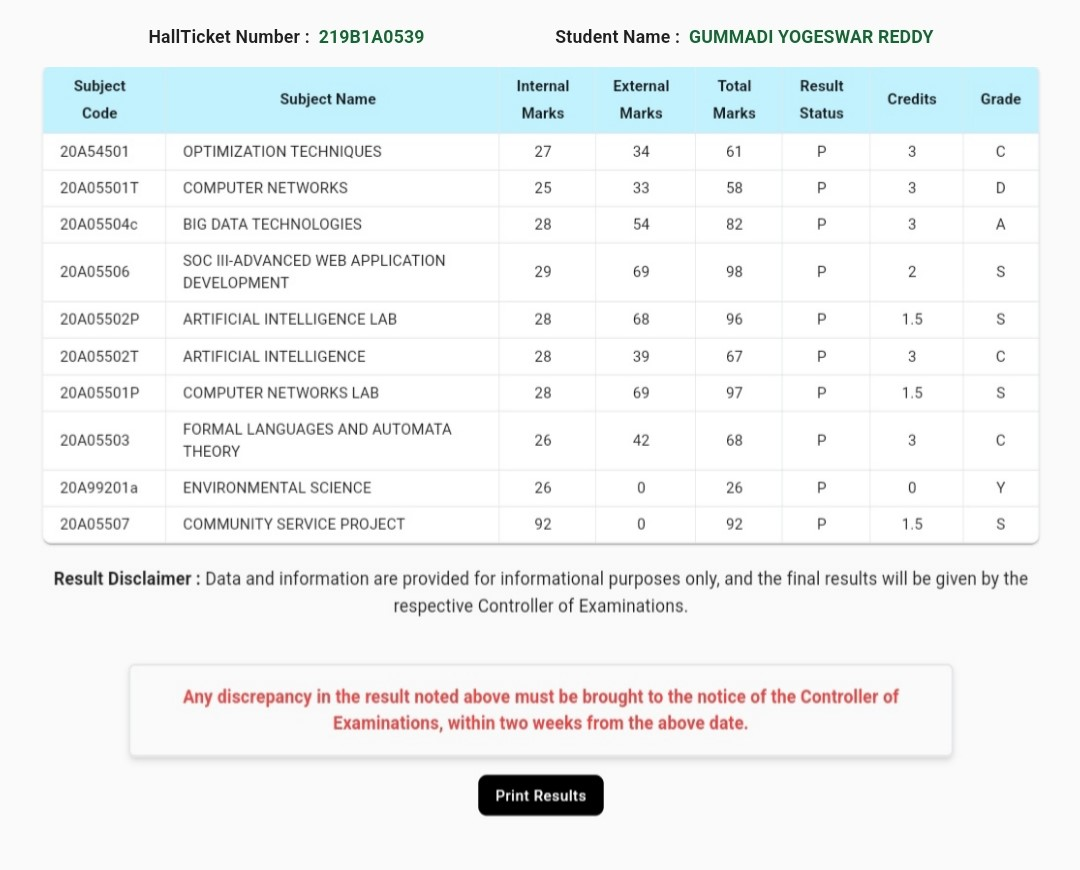
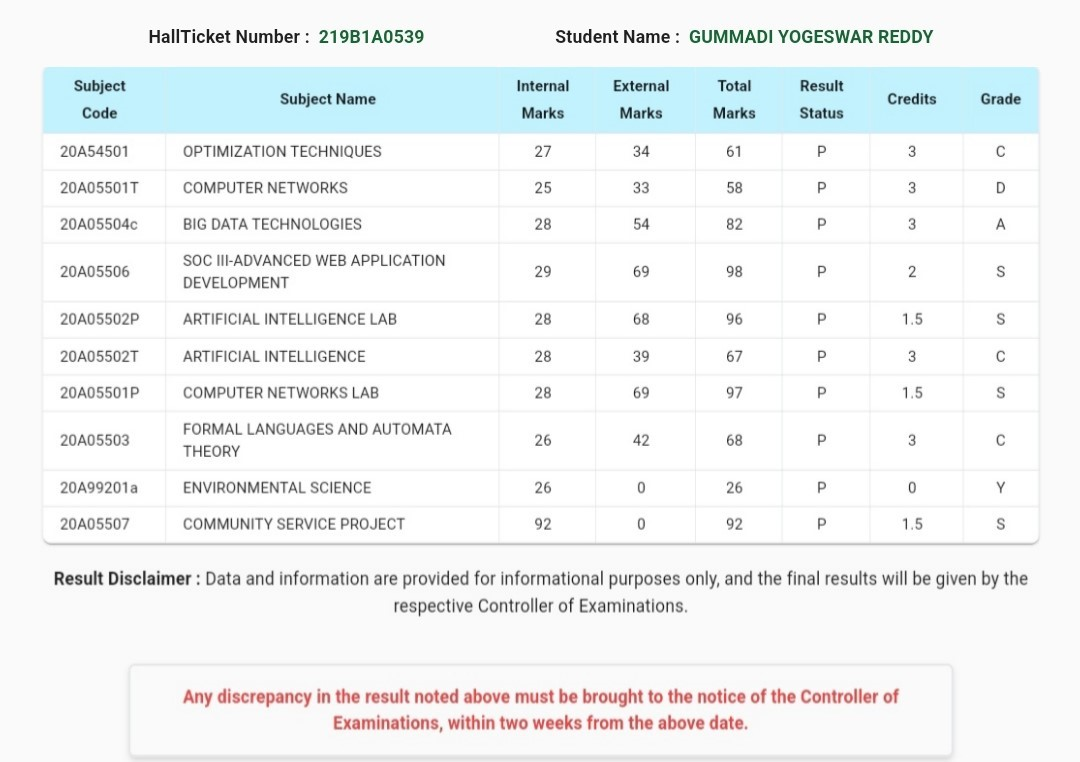
final

diff --git a/style.css b/style.css
@@ -28,7 +28,7 @@ body {
   margin: 0 auto;
   /* padding: 0 32px; */
   min-width: 320px;
-  background-color: var(--backgroundColor);
+  background-color:#FAFAFA;
 }
 
 h1,
@@ -303,7 +303,7 @@ main .container.block .capture{
 }
 
 .results{
-  background-image: url("./public/origin.jpg");
+  display: none;
   background-position:left;
   background-size: 100% 100%;
   background-repeat: no-repeat;
@@ -311,9 +311,24 @@ main .container.block .capture{
   width:152rem;
   height: 90rem;
   margin-bottom: 5rem;
-  display: none;
+
+img{
+    width:110rem;
+    height: 90rem;
+  }
+  transform: translateX(10%);
+  -webkit-transform: translateX(10%);
+  -moz-transform: translateX(10%);
+  -ms-transform: translateX(10%);
+  -o-transform: translateX(10%);
+}
+.black-btn{
+  display:none;
 }
 .section.show .results{
+  display: block;
+}
+.section.show .black-btn{
   display: block;
 }
 
@@ -338,6 +353,26 @@ input[type="checkbox"]{
 }
 
 
+.section .button{
+  display: grid;
+  place-items: center;
+  margin-bottom: 10rem;
+  button{
+    text-align: center;
+    font-size: 1.9rem;
+    padding: 0.6rem 2.8rem;
+    outline: none;
+    color: white;
+    background-color: #000000;
+    border-color: transparent;
+    border-radius: 8px;
+    -webkit-border-radius: 8px;
+    -moz-border-radius: 8px;
+    -ms-border-radius: 8px;
+    -o-border-radius: 8px;
+  }
+}
+
 @media (width <= 400px) {
   .container{
     padding:0rem 1rem;
@@ -347,7 +382,7 @@ input[type="checkbox"]{
     font-size: 50.5%;
   }
   body{
-  background-color:#E8E4E5;
+  background-color:#FAFAFA;
   }
   header{
     display: flex;
@@ -395,13 +430,26 @@ input[type="checkbox"]{
   }
 
   .section .results{
-    width:140rem;
-    background-image: url("./public/small.jpg");
-    transform: translateX(-2rem);
-    -webkit-transform: translateX(-2rem);
-    -moz-transform: translateX(-2rem);
-    -ms-transform: translateX(-2rem);
-    -o-transform: translateX(-2rem);
+    transform: translateX(0rem);
+    -webkit-transform: translateX(0rem);
+    -moz-transform: translateX(0rem);
+    -ms-transform: translateX(0rem);
+    -o-transform: translateX(0rem);
+
+img{
+      width:140rem;
+      height: 90rem;
+      src: url("./public/small.jpg");
+    }
+
+}
+
+.section  .black-btn{
+  transform: translateX(50rem);
+  -webkit-transform: translateX(50rem);
+  -moz-transform: translateX(50rem);
+  -ms-transform: translateX(50rem);
+  -o-transform: translateX(50rem);
 }
 
   .footer-below .links{

diff --git a/main.js b/main.js
@@ -3,6 +3,7 @@ var search = document.querySelector('#btn');
 var container = document.querySelector('#captureBlock');
 var section_result = document.querySelector('.section');
 var main = document.querySelector('main');
+var black_btn = document.querySelector('.black-btn');
 
 search.addEventListener('click',()=>{
 
@@ -26,3 +27,5 @@ search.addEventListener('click',()=>{
         }
     }
 })
+
+black_btn.addEventListener("click",()=>window.print())

diff --git a/index.html b/index.html
@@ -69,7 +69,12 @@
     </main>
 
     <section class="section">
-      <div  class="results"></div>
+      <div  class="results">
+        <img src="./public/origin.jpg" alt="">
+      </div>
+      <div class="button">
+        <button class="black-btn">Print Results</button>
+      </div>
     </section>
 
     <footer>
